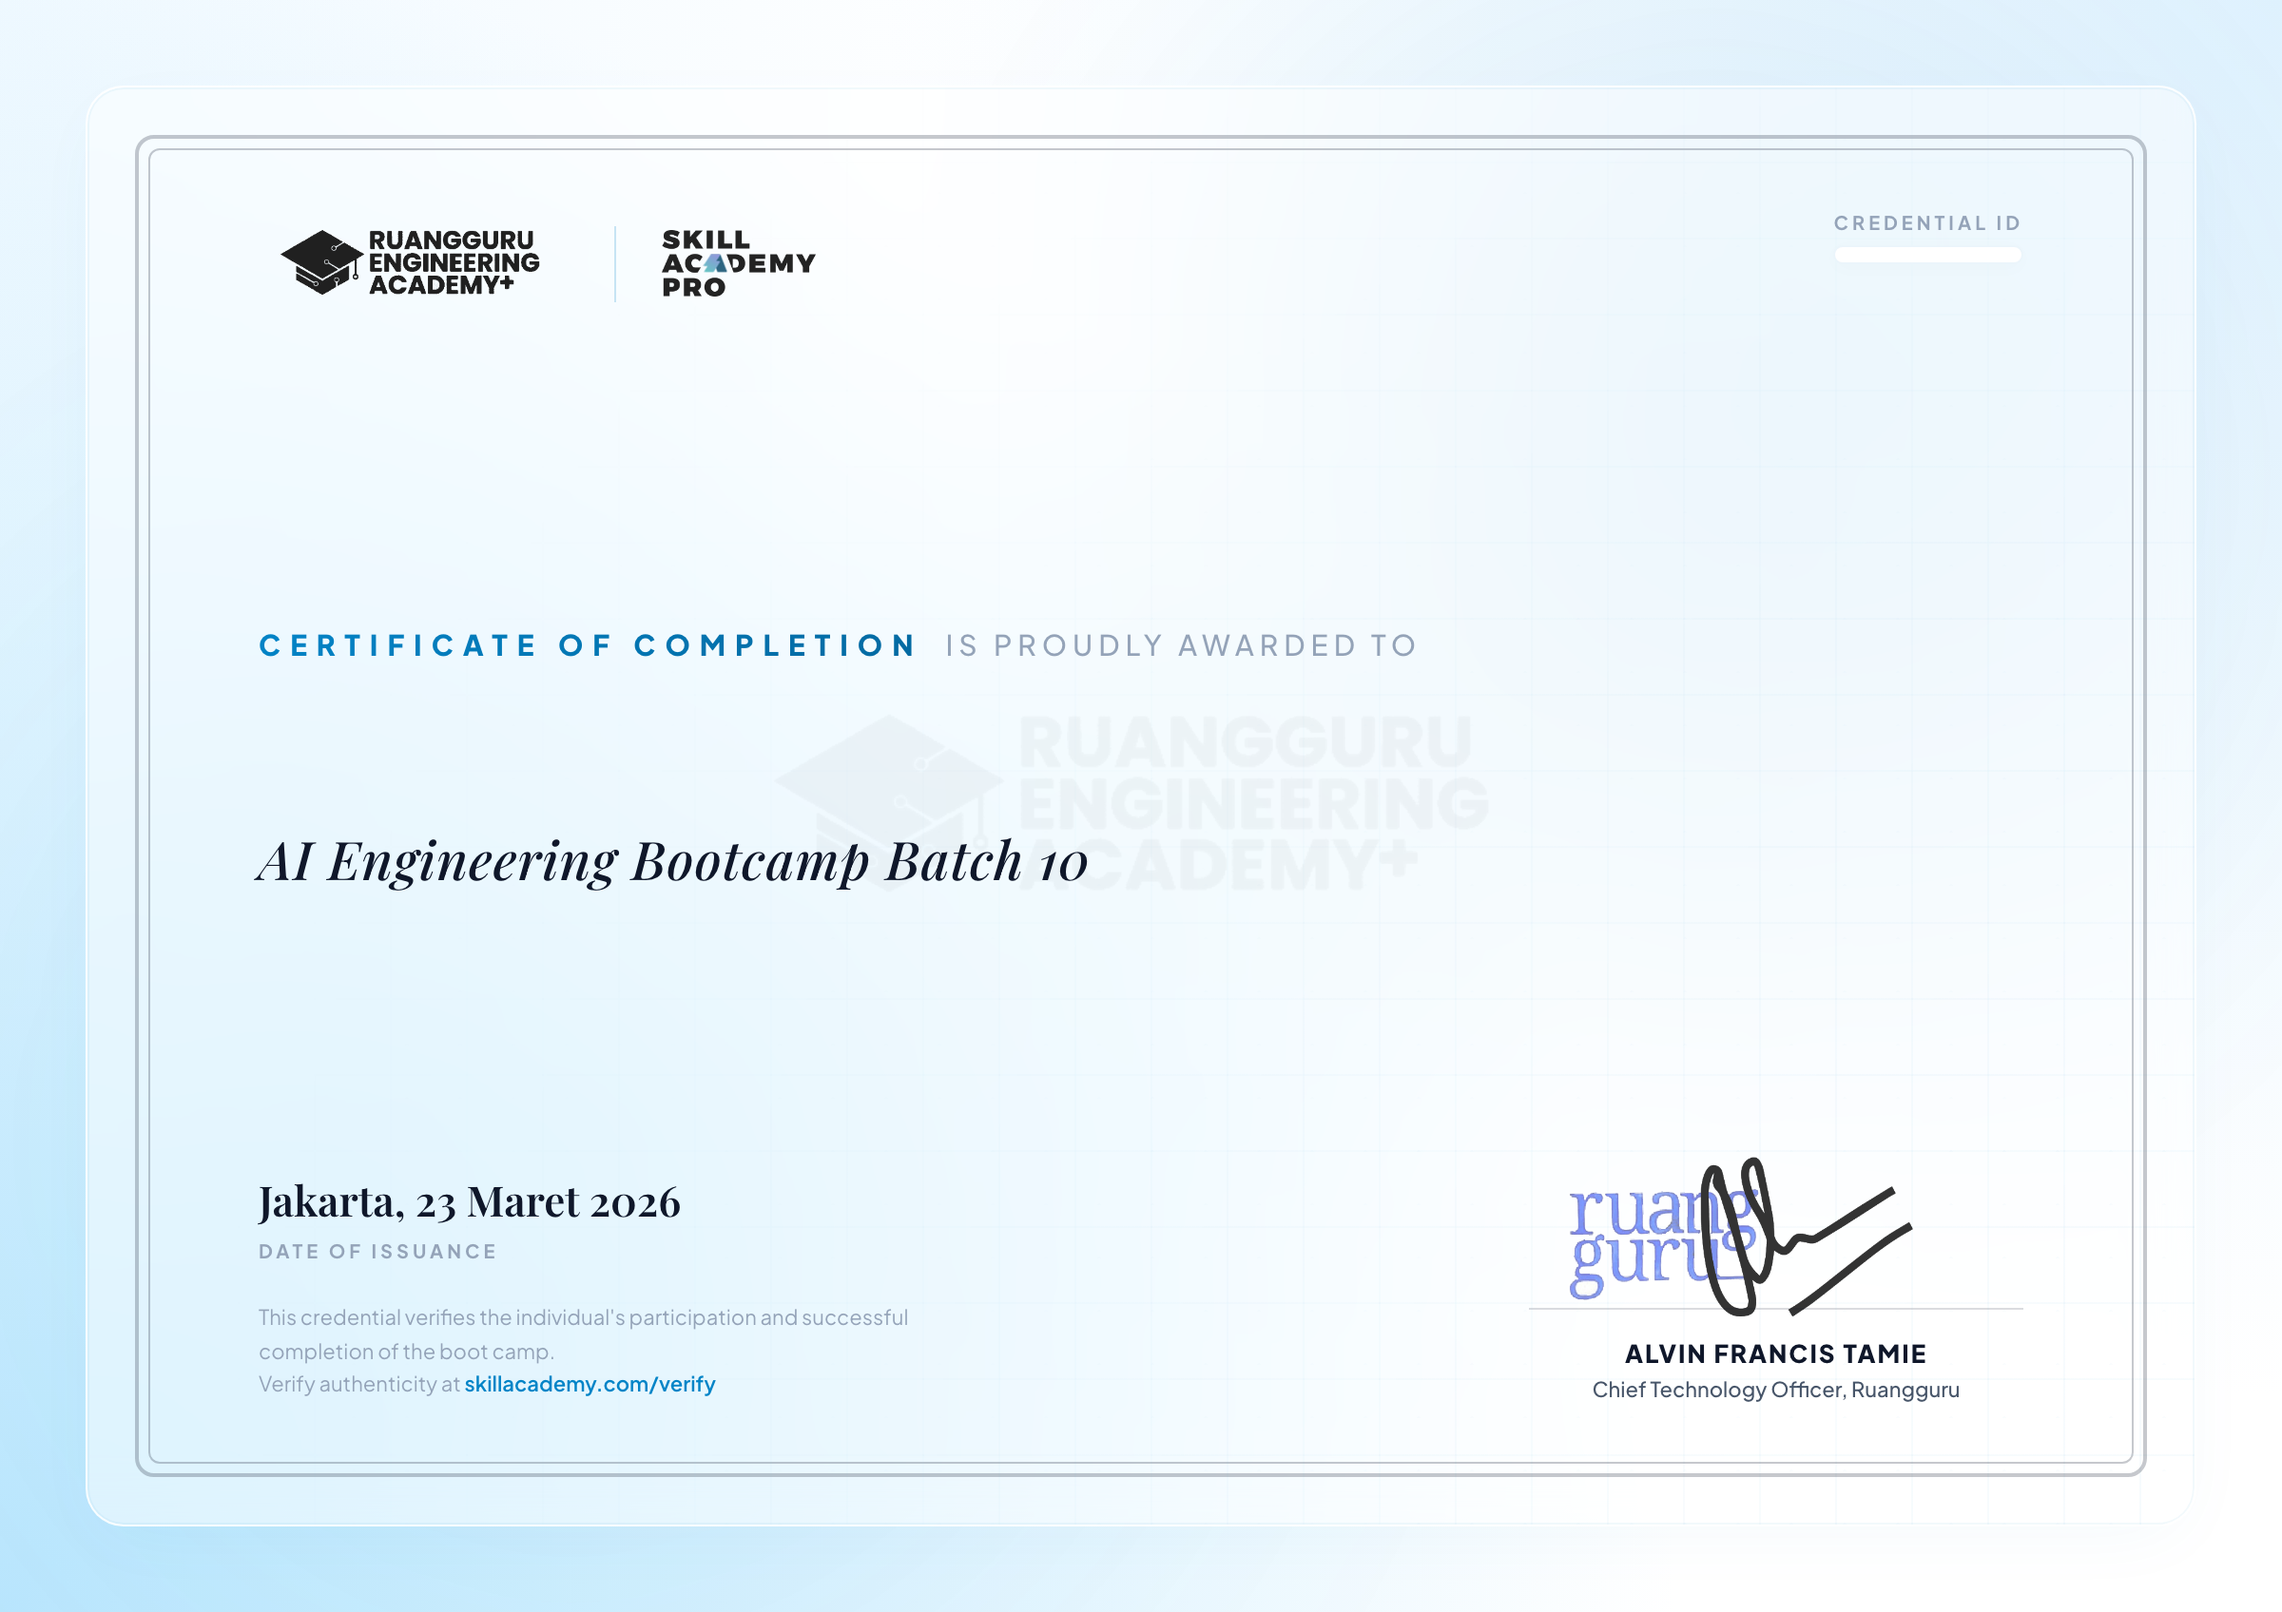
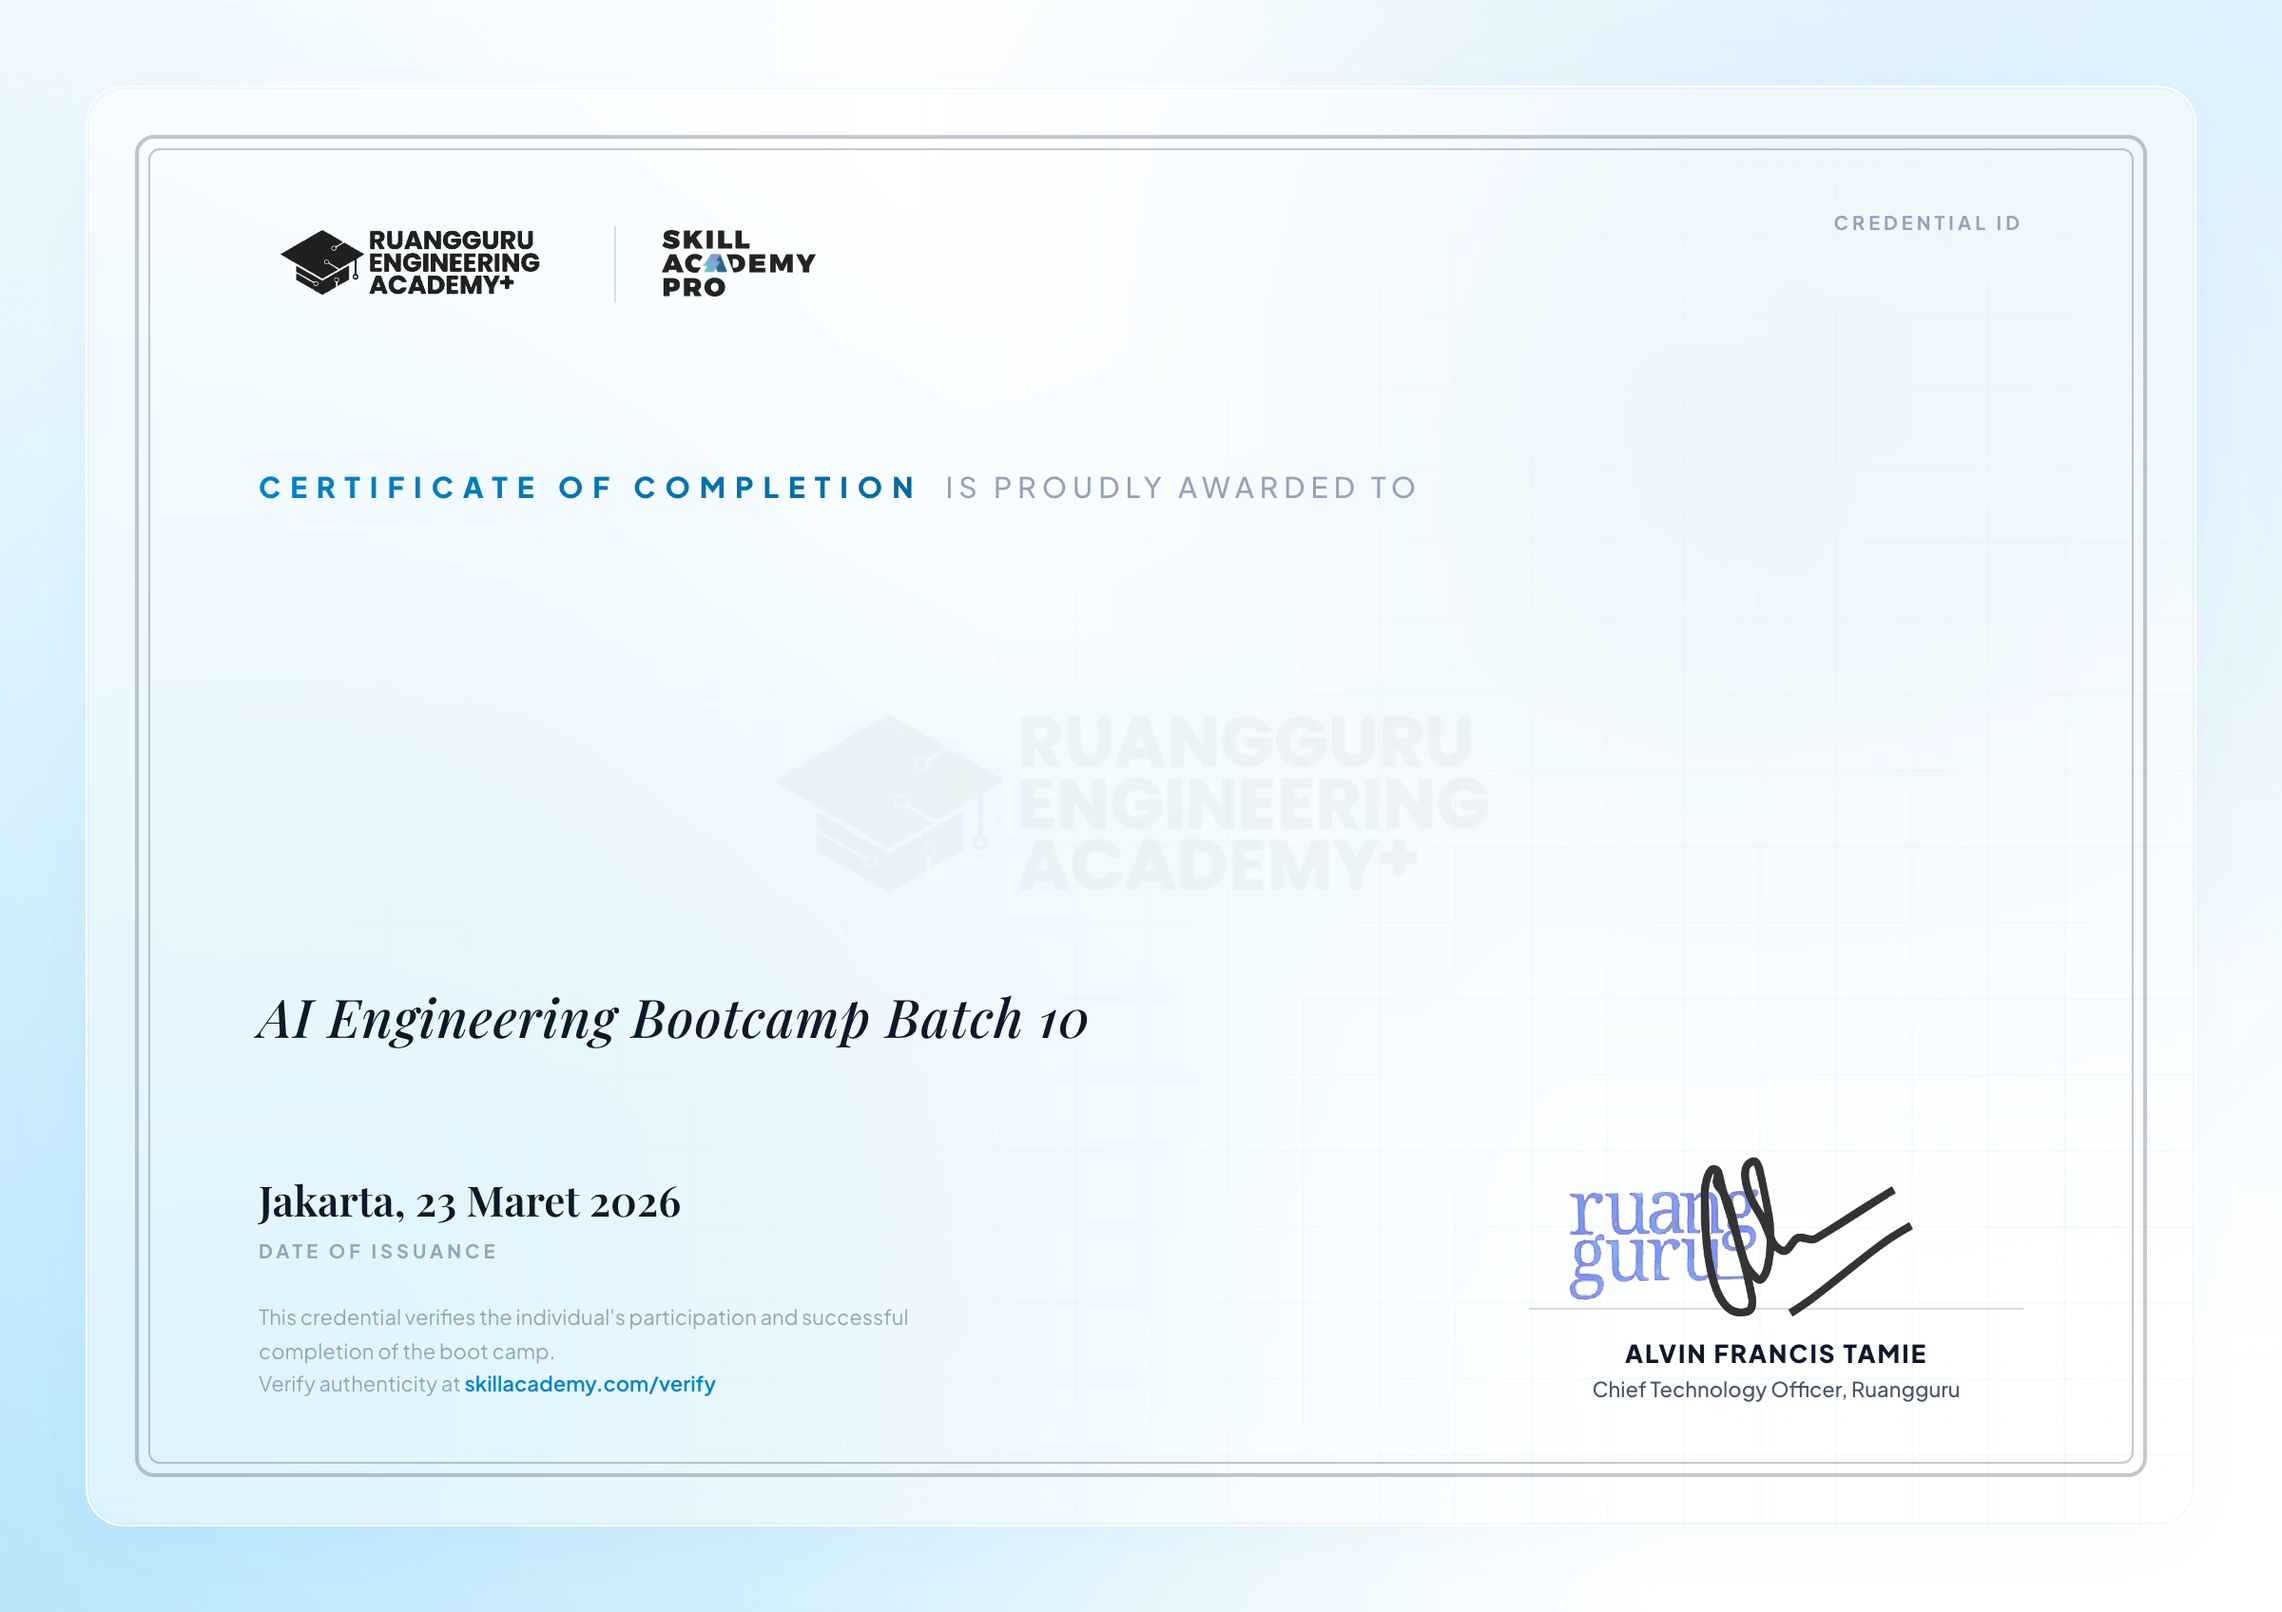
feat/fix: add rich text rendering for bolding score and status, remove ID box

diff --git a/ai-engineering-certificate/index.html b/ai-engineering-certificate/index.html
@@ -246,11 +246,6 @@
             font-weight: 600;
             letter-spacing: 1px;
             color: var(--rea-navy-light);
-            background: #FFFFFF;
-            padding: 4px 12px;
-            border-radius: 20px;
-            box-shadow: 0 2px 10px rgba(0, 0, 0, 0.02);
-            border: 1px solid rgba(2, 132, 199, 0.08);
         }
 
         /* Main Typography Body */
@@ -323,7 +318,8 @@
         }
 
         .program-block {
-            margin-top: 15px;
+            margin-top: 45px;
+            /* Diturunin jaraknya biar lebih ke bawah */
         }
 
         .program-name {
@@ -473,14 +469,17 @@
             <div class="elegant-inner-border"></div>
 
             <div class="inner-pattern-bg"></div>
-            <img src="https://cdn-web.ruangguru.com/file-uploader/4791f896-8bc7-41d4-9c58-67c9c4054477.png" alt="" class="watermark-logo">
+            <img src="https://cdn-web.ruangguru.com/file-uploader/4791f896-8bc7-41d4-9c58-67c9c4054477.png" alt=""
+                class="watermark-logo">
 
             <!-- Header -->
             <div class="top-nav">
                 <div class="brand-logos">
-                    <img src="https://cdn-web.ruangguru.com/file-uploader/4791f896-8bc7-41d4-9c58-67c9c4054477.png" alt="REA" class="brand-logo-rea">
+                    <img src="https://cdn-web.ruangguru.com/file-uploader/4791f896-8bc7-41d4-9c58-67c9c4054477.png"
+                        alt="REA" class="brand-logo-rea">
                     <div class="brand-logo-separator"></div>
-                    <img src="https://cdn-web.ruangguru.com/file-uploader/a287e3f7-3d52-477e-826b-80789f3d9861.png" alt="SA Pro" class="brand-logo-sa">
+                    <img src="https://cdn-web.ruangguru.com/file-uploader/a287e3f7-3d52-477e-826b-80789f3d9861.png"
+                        alt="SA Pro" class="brand-logo-sa">
                 </div>
                 <div class="cert-id-block">
                     <div class="cert-id-label">Credential ID</div>
@@ -521,8 +520,10 @@
                 </div>
 
                 <div class="signature-block">
-                    <img src="https://cdn-web.ruangguru.com/file-uploader/3658b378-4a25-4f95-926e-6fbd9a28ce3a.png" alt="Ruangguru Stamp" class="stamp-img">
-                    <img src="https://cdn-web.ruangguru.com/file-uploader/cd39c2fc-e6b9-4841-9f85-e55edabc8702.png" alt="Alvin Tamie Signature" class="signature-real-img">
+                    <img src="https://cdn-web.ruangguru.com/file-uploader/3658b378-4a25-4f95-926e-6fbd9a28ce3a.png"
+                        alt="Ruangguru Stamp" class="stamp-img">
+                    <img src="https://cdn-web.ruangguru.com/file-uploader/cd39c2fc-e6b9-4841-9f85-e55edabc8702.png"
+                        alt="Alvin Tamie Signature" class="signature-real-img">
 
                     <p class="signer-name">Alvin Francis Tamie</p>
                     <p class="signer-title">Chief Technology Officer, Ruangguru</p>

diff --git a/api.py b/api.py
@@ -39,14 +39,51 @@ ASSETS_DIR     = BASE_DIR / "assets"
 TEMPLATE_COC   = ASSETS_DIR / "template_coc_blank.png"
 TEMPLATE_COE   = ASSETS_DIR / "template_coe_blank.png"
 
-FONT_PATH      = str(BASE_DIR / "Roboto-Bold.ttf")
+FONT_PATH_BOLD = str(BASE_DIR / "Roboto-Bold.ttf")
+FONT_PATH_REG  = str(BASE_DIR / "Roboto-Regular.ttf")
 
 try:
-    font_name    = ImageFont.truetype(FONT_PATH, 110)
-    font_desc    = ImageFont.truetype(FONT_PATH, 38)
-    font_cert_id = ImageFont.truetype(FONT_PATH, 32)
+    font_name    = ImageFont.truetype(FONT_PATH_BOLD, 110)
+    font_desc_reg= ImageFont.truetype(FONT_PATH_REG, 38)
+    font_desc_bld= ImageFont.truetype(FONT_PATH_BOLD, 38)
+    font_cert_id = ImageFont.truetype(FONT_PATH_BOLD, 32)
 except Exception:
-    font_name = font_desc = font_cert_id = ImageFont.load_default()
+    font_name = font_desc_reg = font_desc_bld = font_cert_id = ImageFont.load_default()
+
+def draw_rich_text(draw, pos, text, font_reg, font_bold, fill_color, max_w_chars=85, spacing=15):
+    words = text.split(' ')
+    lines = []
+    current_line = []
+    current_len = 0
+    for word in words:
+        clean = word.replace('<b>', '').replace('</b>', '')
+        if current_len + len(clean) + 1 > max_w_chars and current_line:
+            lines.append(current_line)
+            current_line = [word]
+            current_len = len(clean)
+        else:
+            current_line.append(word)
+            current_len += len(clean) + 1
+    if current_line:
+        lines.append(current_line)
+        
+    x_start, y = pos
+    is_bold = False
+    for line in lines:
+        x = x_start
+        for word in line:
+            was_bold = is_bold
+            if '<b>' in word:
+                is_bold = True
+                was_bold = True
+                word = word.replace('<b>', '')
+            if '</b>' in word:
+                is_bold = False
+                word = word.replace('</b>', '')
+            font = font_bold if was_bold else font_reg
+            draw.text((x, y), word, font=font, fill=fill_color)
+            x += draw.textlength(word + ' ', font=font)
+        y += 38 + spacing
 
 # ─── APP ──────────────────────────────────────────────────────────────────────
 app = FastAPI(
@@ -116,20 +153,20 @@ def draw_cert_image(
         desc = (
             f"For demonstrating exceptional dedication, fulfilling all comprehensive curriculum requirements, "
             f"and successfully delivering an outstanding final project, thereby earning the status of "
-            f"BEST STUDENT in the following program:"
+            f"<b>BEST STUDENT</b> in the following program:"
         )
     elif cert_type_label == "COE":
         img_path = TEMPLATE_COE
         desc = (
             f"For demonstrating exceptional dedication and successfully fulfilling all curriculum requirements "
-            f"with a score of {int(score)}, thereby earning the grade of {grade} in the following program:"
+            f"with a score of <b>{int(score)}</b>, thereby earning the grade of <b>{grade}</b> in the following program:"
         )
     else:  # COC
         img_path = TEMPLATE_COC
         desc = (
             f"For demonstrating strong commitment and successfully fulfilling the attendance requirements "
-            f"with an accumulation score of {atc_str} throughout the sessions, thereby earning the status "
-            f"of PASSED in the following program:"
+            f"with an accumulation score of <b>{atc_str}</b> throughout the sessions, thereby earning the status "
+            f"of <b>PASSED</b> in the following program:"
         )
 
     # Buka gambar template
@@ -141,17 +178,16 @@ def draw_cert_image(
     color_desc = "#334155" # Slate-700
     color_cert = "#0284c7" # Light Blue
     
-    # 1. Gambar Nama - Berada di bawah "IS PROUDLY AWARDED TO" (Y=560)
-    name_pos = (260, 560)
+    # 1. Gambar Nama - (Dikembalikan ke Y=600 biar nempel dan nyambung dengan title Awarded To)
+    name_pos = (260, 600)
     draw.text(name_pos, name, font=font_name, fill=color_name)
 
-    # 2. Gambar Deskripsi - Tepat berada di bawah Nama, dan berada DI ATAS "Batch 10" (Y=720)
-    desc_wrapped = textwrap.fill(desc, width=90)
-    desc_pos = (265, 720)
-    draw.multiline_text(desc_pos, desc_wrapped, font=font_desc, fill=color_desc, spacing=15)
+    # 2. Gambar Deskripsi - (Rich Text dg Bold)
+    desc_pos = (265, 780)
+    draw_rich_text(draw, desc_pos, desc, font_desc_reg, font_desc_bld, color_desc)
 
     # 3. Gambar Credential ID (Pill inside HTML is drawn around Y=220-260).
-    cert_id_pos = (2120, 245)
+    cert_id_pos = (2170, 245)
     draw.text(cert_id_pos, cert_id, font=font_cert_id, fill=color_cert, anchor="ra")
 
     # Export ke Bytes
